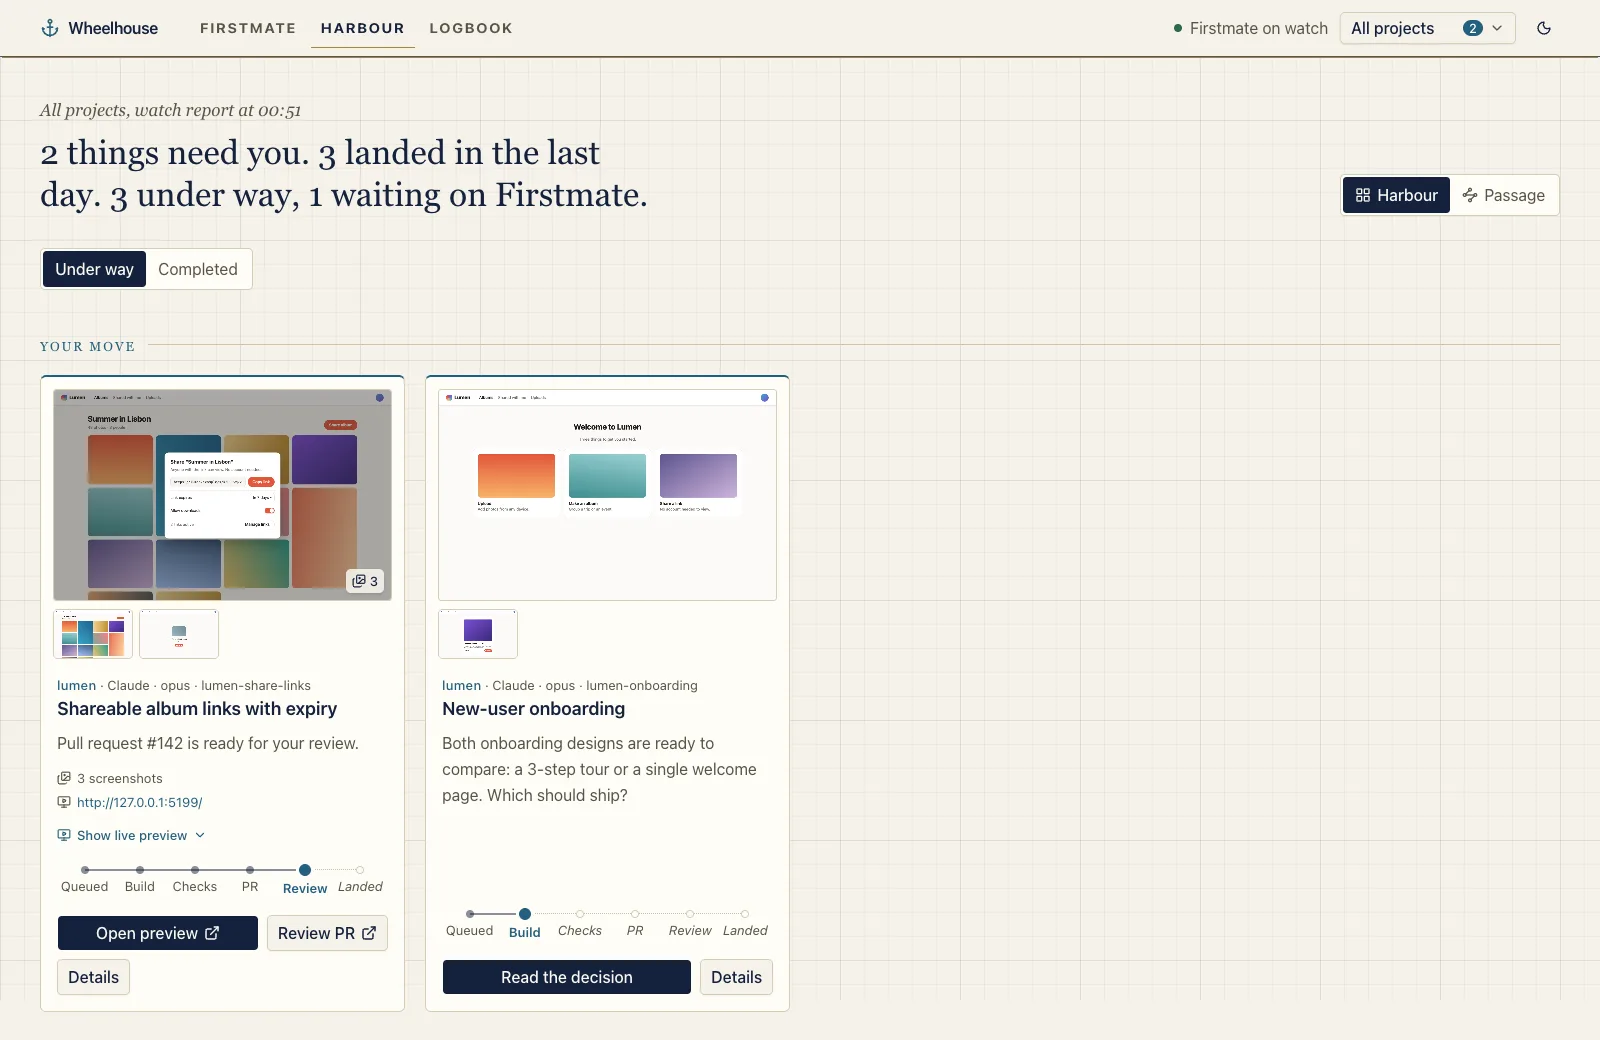
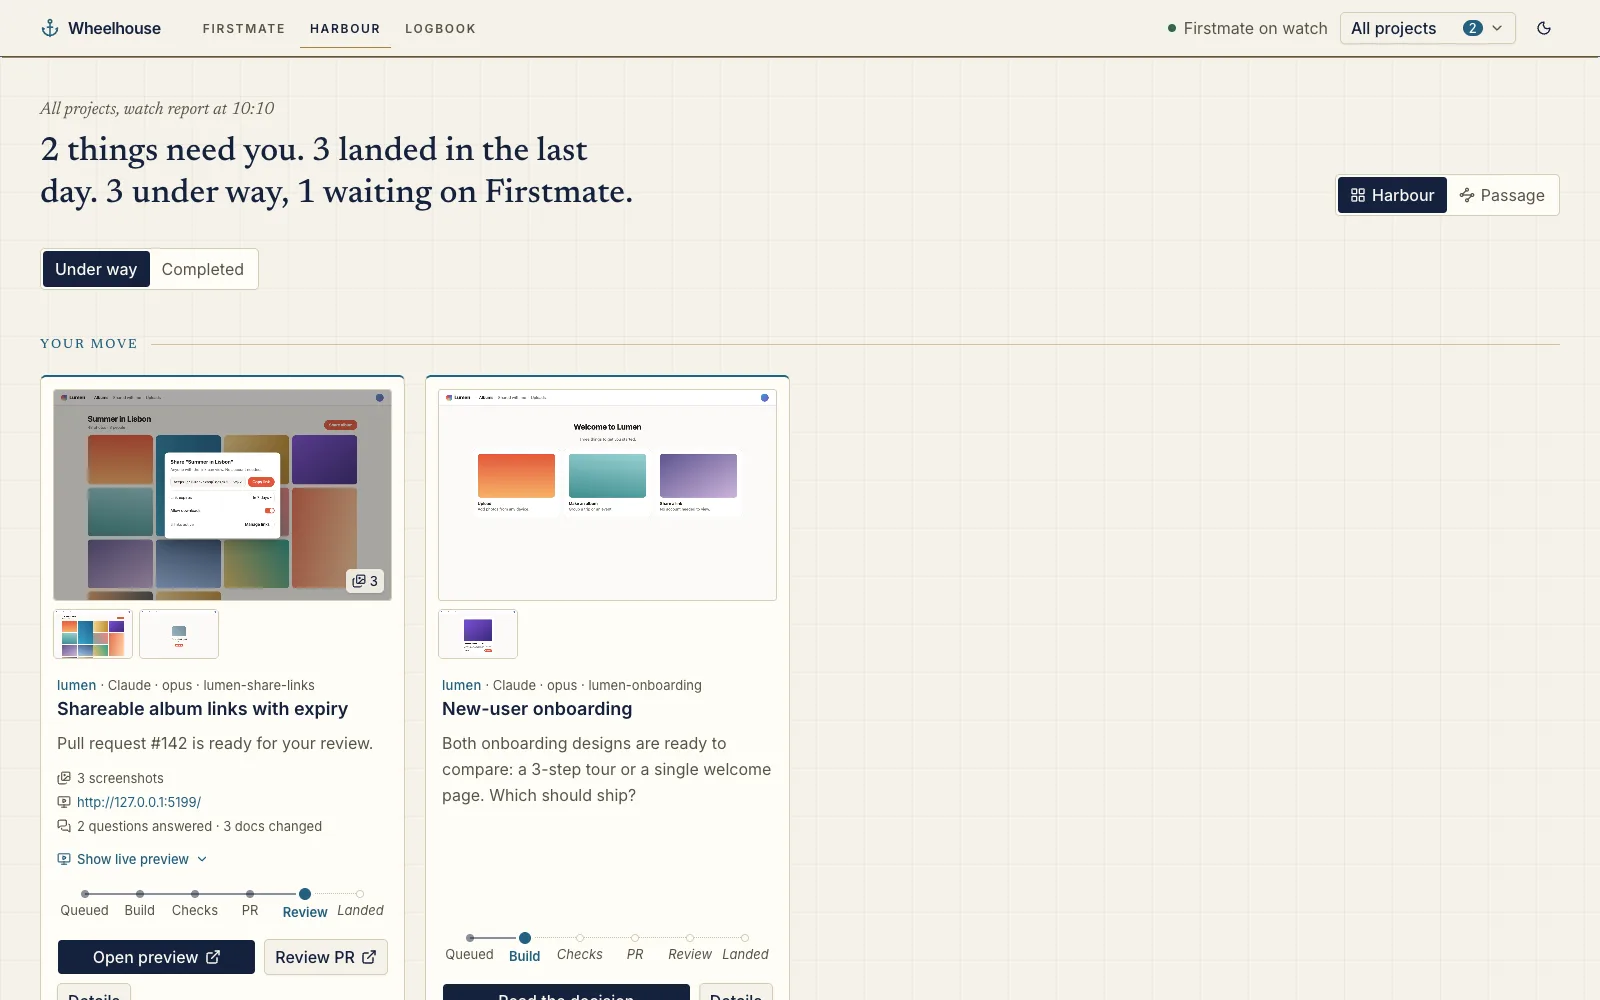
fix: apply the UX review: one meaning per count, plain failure names, Checks stage falls back to the latest report; refresh README screenshots

diff --git a/src/routes/tasks/[id]/+page.svelte b/src/routes/tasks/[id]/+page.svelte
@@ -160,7 +160,10 @@
 					shots: shots.length,
 					plugins: pluginTabs.map((e) => ({ key: e.key, title: e.title })),
 					build: {
-						talk: detail.build.conversation.available ? detail.build.conversation.value.length : 0,
+						// Only what is still waiting on an answer is counted.
+						talk: detail.build.conversation.available
+							? detail.build.conversation.value.filter((e) => e.outcome.state === 'open').length
+							: 0,
 						docs: detail.build.docs.available ? detail.build.docs.value.length : 0
 					}
 				})
@@ -197,6 +200,14 @@
 		const reduce = matchMedia('(prefers-reduced-motion: reduce)').matches;
 		tabsTop?.scrollIntoView({ block: 'start', behavior: reduce ? 'auto' : 'smooth' });
 	}
+
+	// On narrow screens the tab row scrolls; keep the selected tab in sight.
+	$effect(() => {
+		void active;
+		document
+			.getElementById(`tab-${active}`)
+			?.scrollIntoView({ block: 'nearest', inline: 'nearest' });
+	});
 
 	function onTabKey(e: KeyboardEvent, i: number) {
 		const n = tabs.length;
@@ -339,6 +350,18 @@
 	{/if}
 {/snippet}
 
+{#snippet checksLink()}
+	<button
+		type="button"
+		class="mt-2 block text-sm text-sea hover:underline"
+		onclick={() => {
+			show('checks');
+			// Keyboard users land where the report is.
+			tick().then(() => document.getElementById('tab-checks')?.focus());
+		}}>What each check found</button
+	>
+{/snippet}
+
 {#snippet queueBlock()}
 	{#if task}
 		<p class="text-sm text-muted-foreground">
@@ -369,10 +392,8 @@
 			From the validation run’s own report{task.pipeline.observedAt
 				? `, ${ago(task.pipeline.observedAt, live.now)}`
 				: ''}.
-			<button type="button" class="text-sea hover:underline" onclick={() => show('checks')}
-				>What each check found</button
-			>
 		</p>
+		{@render checksLink()}
 	{:else if ev?.validation.available}
 		{@const plain = plainStatus(task?.current?.state, ev.validation.value.detail)}
 		<p class="text-sm">{plain}</p>
@@ -387,6 +408,14 @@
 		{/if}
 		<RawDetails raw={ev.validation.value.detail} {plain} />
 		{@render source(ev.validation)}
+	{:else if detail?.build.checks.available}
+		<!-- No run is current any more, but the latest one's report is still there. -->
+		<ul class="space-y-1 text-sm">
+			{#each detail.build.checks.value.steps.filter((x) => x.key !== 'intent') as c (c.key)}
+				<li><span class="font-medium">{c.label}</span> · {c.summary}</li>
+			{/each}
+		</ul>
+		{@render checksLink()}
 	{:else if ev}
 		{@render unavailable(ev.validation)}
 	{/if}

diff --git a/src/lib/components/wh/buildlog/ChecksReport.svelte b/src/lib/components/wh/buildlog/ChecksReport.svelte
@@ -32,6 +32,15 @@
 	const docHref = (p: string) =>
 		`/tasks/${encodeURIComponent(taskId)}/doc?path=${encodeURIComponent(p)}`;
 	const RESULT = { pass: 'Passed', fail: 'Failed', untested: 'Not tested', other: 'Other' };
+	/** A failed test's own name first, in sentence case; where it lives (file and suite) under it. */
+	function testName(full: string): { title: string; where: string | null } {
+		const parts = full.split(' › ');
+		const last = parts.pop() ?? full;
+		return {
+			title: last.charAt(0).toUpperCase() + last.slice(1),
+			where: parts.length ? parts.join(' › ') : null
+		};
+	}
 </script>
 
 {#snippet stateIcon(s: CheckReport)}
@@ -131,15 +140,23 @@
 								{/if}
 								{#if t.failures.length}
 									<ul class="space-y-2">
-										{#each t.failures as f (f.name)}
+										{#each t.failures as f, n (f.name)}
+											{@const name = testName(f.name)}
 											<li>
-												<details class="rounded-md border border-danger/30 bg-danger/5">
+												<details
+													class="rounded-md border border-danger/30 bg-danger/5"
+													open={n === 0}
+												>
 													<summary class="flex cursor-pointer items-start gap-2 px-3 py-2">
 														<X class="mt-0.5 size-4 shrink-0 text-danger" aria-hidden="true" />
-														<span class="min-w-0 break-words">{f.name}</span>
+														<span class="min-w-0 break-words"
+															>{name.title}{#if name.where}<span
+																	class="block text-xs text-muted-foreground">{name.where}</span
+																>{/if}</span
+														>
 													</summary>
 													{#if f.output}<pre
-															class="no-scrollbar overflow-x-auto border-t border-danger/20 px-3 py-2 font-mono text-xs whitespace-pre-wrap">{f.output}</pre>{/if}
+															class="overflow-x-auto border-t border-danger/20 px-3 py-2 font-mono text-xs whitespace-pre">{f.output}</pre>{/if}
 												</details>
 											</li>
 										{/each}
@@ -202,7 +219,9 @@
 							{#if s.notes.length}
 								<div>
 									<p class="text-xs text-muted-foreground">
-										{s.key === 'test' || s.key === 'document' ? 'What it did' : 'Along the way'}
+										{s.key === 'test' || s.key === 'document'
+											? 'In its own words'
+											: 'Along the way'}
 									</p>
 									<ul class="mt-1 list-disc space-y-1 pl-5 text-muted-foreground">
 										{#each s.notes as n, i (i)}<li>{n}</li>{/each}

diff --git a/src/lib/buildlog.ts b/src/lib/buildlog.ts
@@ -114,9 +114,11 @@ export type DocView = Available<{
 	markdown: string;
 	truncated: boolean;
 	github: string | null;
+	/** This task's work changed it (else the worker only read it). */
+	changed: boolean;
 }>;
 
-/** The Harbour card's hint: questions asked about the task, and docs it touches. */
+/** The Harbour card's hint: questions asked about the task (each review finding counts), and docs it changes. */
 export interface BuildHint {
 	questions: number;
 	open: number;
@@ -152,7 +154,7 @@ export function hintLine(h: BuildHint | null | undefined): string | null {
 				: `${plural(h.questions, 'question')} answered`
 		);
 	}
-	if (h.docs) parts.push(plural(h.docs, 'doc'));
+	if (h.docs) parts.push(`${plural(h.docs, 'doc')} changed`);
 	return parts.length ? parts.join(' · ') : null;
 }
 
@@ -162,8 +164,11 @@ export function testLine(t: TestResult): string {
 	if (passed !== null || failed !== null) {
 		const total = (passed ?? 0) + (failed ?? 0);
 		const skip = skipped ? `, ${skipped} skipped` : '';
-		if (failed) return `${failed} of ${plural(total, 'test')} failed${skip}`;
-		return `All ${plural(total, 'test')} passed${skip}`;
+		const live = t.scenarios.length
+			? `; ${t.scenarios.filter((s) => s.result === 'pass').length} of ${plural(t.scenarios.length, 'scenario')} passed when tried live`
+			: '';
+		if (failed) return `${failed} of ${plural(total, 'test')} failed${skip}${live}`;
+		return `All ${plural(total, 'test')} passed${skip}${live}`;
 	}
 	if (t.scenarios.length) {
 		const n = (r: string) => t.scenarios.filter((s) => s.result === r).length;

diff --git a/src/lib/server/buildlog/conversation.ts b/src/lib/server/buildlog/conversation.ts
@@ -251,24 +251,31 @@ function rest(text: string, title: string): string | null {
 
 const lower = (s: string) => (s ? s.charAt(0).toLowerCase() + s.slice(1) : s);
 
-/** How many questions the task's worker and review raised, and how many are still open. */
+/**
+ * How many questions the task's worker and review raised, and how many are
+ * still open. Each of the review's findings put to Firstmate is a question.
+ */
 export function questionCounts(statuses: LedgerStatus[]): { questions: number; open: number } {
-	const open = new Set<string>();
+	const open = new Map<string, number>();
 	let questions = 0;
 	let anon = 0;
 	for (const s of [...statuses].sort((a, b) => a.ts - b.ts)) {
 		if (s.state === 'needs-decision' || s.state === 'blocked') {
 			const key = s.key ?? `#${++anon}`;
 			if (open.has(key)) continue;
-			open.add(key);
-			questions++;
+			const n = Math.max(
+				1,
+				/\bfindings=(\S+)/.exec(s.text)?.[1].split(',').filter(Boolean).length ?? 1
+			);
+			open.set(key, n);
+			questions += n;
 		} else if (s.state === 'resolved') {
 			if (s.key) open.delete(s.key);
 			else {
-				const last = [...open].filter((k) => !k.startsWith('nm-')).at(-1);
+				const last = [...open.keys()].filter((k) => !k.startsWith('nm-')).at(-1);
 				if (last) open.delete(last);
 			}
 		}
 	}
-	return { questions, open: open.size };
+	return { questions, open: [...open.values()].reduce((a, b) => a + b, 0) };
 }

diff --git a/src/lib/components/wh/buildlog/DocsPanel.svelte b/src/lib/components/wh/buildlog/DocsPanel.svelte
@@ -15,12 +15,12 @@
 				].filter((g) => g.items.length)
 			: []
 	);
-	const how = (d: DocRef) =>
-		d.changed
-			? d.additions !== null
-				? `Changed (+${d.additions} −${d.deletions ?? 0})`
-				: 'Changed'
-			: 'Read by the worker';
+	const how = (d: DocRef) => {
+		if (!d.changed) return 'Read by the worker';
+		if (d.additions === null) return 'Changed in this task';
+		if (!d.deletions) return `${d.additions} ${d.additions === 1 ? 'line' : 'lines'} added`;
+		return `${d.additions} added, ${d.deletions} removed`;
+	};
 </script>
 
 <section aria-labelledby="task-docs" class="max-w-4xl">
@@ -54,7 +54,7 @@
 						<div class="min-w-0 flex-1">
 							<a href={href(d)} class="font-medium hover:underline">{d.title}</a>
 							<p class="mt-0.5 text-xs text-muted-foreground">
-								{DOC_KIND_LABEL[d.kind]} · {d.name} ·
+								{DOC_KIND_LABEL[d.kind]}{d.kind === 'readme' ? '' : ` · ${d.name}`} ·
 								<span class={d.changed ? 'text-foreground/80' : ''}>{how(d)}</span>
 							</p>
 						</div>

diff --git a/src/lib/server/buildlog/docs.ts b/src/lib/server/buildlog/docs.ts
@@ -35,7 +35,7 @@ export function readableName(p: string): string {
 	const base = path.basename(p).replace(DOC_EXT, '');
 	if (/^readme$/i.test(base)) {
 		const dir = path.dirname(p);
-		return dir === '.' ? 'Readme' : `Readme for ${path.basename(dir)}`;
+		return dir === '.' ? 'Project readme' : `Readme for ${path.basename(dir)}`;
 	}
 	const s = base
 		.replace(/^\d{1,5}[-_ ]+/, '')
@@ -46,6 +46,8 @@ export function readableName(p: string): string {
 
 /** The document's own title: YAML front matter `title:`/`name:`, else its first heading. */
 export function docTitle(md: string, p: string): string {
+	// A readme's heading is usually just the project's name; say what it is instead.
+	if (docKind(p) === 'readme') return readableName(p);
 	const text = md.replace(/\r\n?/g, '\n');
 	const front = /^---\n([\s\S]*?)\n---/.exec(text);
 	const named = front && /^(?:title|name):\s*["']?(.+?)["']?\s*$/m.exec(front[1]);

diff --git a/src/lib/server/buildlog/checks.test.ts b/src/lib/server/buildlog/checks.test.ts
@@ -209,7 +209,9 @@ describe('checks view', () => {
 		const by = Object.fromEntries(v.steps.map((s) => [s.key, s]));
 		expect(by.rebase.summary).toBe('Already up to date with the main branch');
 		expect(by.review.summary).toBe('Found 3 things to look at over 2 rounds; made 1 fix');
-		expect(by.test.summary).toBe('2 of 15 tests failed, 1 skipped');
+		expect(by.test.summary).toBe(
+			'2 of 15 tests failed, 1 skipped; 1 of 3 scenarios passed when tried live'
+		);
 		expect(by.test.tests?.scenarios).toHaveLength(3);
 		expect(by.document.summary).toBe('Updated the docs: 1 document changed in all');
 		expect(by.document.docs?.summary[0]).toBe(

diff --git a/src/lib/server/buildlog/conversation.test.ts b/src/lib/server/buildlog/conversation.test.ts
@@ -174,8 +174,9 @@ describe('question counts', () => {
 				st(2, 'needs-decision', 'a again?', 'k1'),
 				st(3, 'resolved', 'answered: yes', 'k1'),
 				st(4, 'blocked', 'stuck'),
-				st(5, 'needs-decision', 'b?', 'k2')
+				st(5, 'needs-decision', 'b?', 'k2'),
+				st(6, 'needs-decision', `ask-user findings=x,y file=/f.txt`, `nm-${RUN}-review`)
 			])
-		).toEqual({ questions: 3, open: 2 });
+		).toEqual({ questions: 5, open: 4 });
 	});
 });

diff --git a/src/routes/tasks/[id]/doc/+page.svelte b/src/routes/tasks/[id]/doc/+page.svelte
@@ -36,6 +36,9 @@
 			</p>
 			<h1 class="mt-1 text-[2rem] leading-tight text-balance">{doc.title}</h1>
 			<p class="mt-2 flex flex-wrap items-center gap-x-3 gap-y-1 text-sm text-muted-foreground">
+				<span class={doc.changed ? 'text-foreground/80' : ''}
+					>{doc.changed ? 'Changed in this task' : 'Read by the worker for this task'}</span
+				>
 				<span>{doc.name}</span>
 				{#if doc.github}<a
 						href={doc.github}

diff --git a/src/lib/server/buildlog/docs.test.ts b/src/lib/server/buildlog/docs.test.ts
@@ -49,6 +49,7 @@ describe('titles', () => {
 		);
 		expect(docTitle('no heading here', 'docs/adr/0007-use-postgres.md')).toBe('Use postgres');
 		expect(readableName('packages/web/README.md')).toBe('Readme for web');
+		expect(docTitle('# Lumen\n', 'README.md')).toBe('Project readme');
 	});
 });
 

diff --git a/src/lib/server/buildlog/reader.ts b/src/lib/server/buildlog/reader.ts
@@ -471,7 +471,8 @@ export class BuildReader {
 				kind: ref.kind,
 				markdown: text.text,
 				truncated: !text.whole,
-				github: ref.github
+				github: ref.github,
+				changed: ref.changed
 			}
 		};
 	}

diff --git a/README.md b/README.md
@@ -26,9 +26,15 @@ Chat with Firstmate the way you would with a lead engineer. Its replies read as 
 
 ## Know exactly where every task is
 
-![A task page: the stages from queued to landed, and the automated checks step by step with what each one found](docs/screenshots/task.webp)
+![A task page: the automated checks step by step, with two failing tests and the start of their output](docs/screenshots/task.webp)
 
-Every piece of work moves along a passage, from **Queued** to **Landed**. Open a task to see the files it changed, each automated check as it runs (what the review found, what got fixed, how long each step took), the pull request and its CI, and the full log. While you are away you can still follow the build: the **Conversation** between the worker and Firstmate (every question, answer and instruction), what each **Check** found (tests passed and failed, with the failures' output, and which docs changed), and every decision record and doc the work read or changed, readable right there.
+Every piece of work moves along a passage, from **Queued** to **Landed**. Open a task to see the files it changed, each automated check as it runs (what the review found, what got fixed, how long each step took), the pull request and its CI, and the full log.
+
+## Follow the build while you are away
+
+![The conversation between a worker and Firstmate: an instruction the worker has read, and the automated review's two questions with Firstmate's call on each](docs/screenshots/conversation.webp)
+
+Every question the worker raised and every answer Firstmate gave for you is there in plain words, with who asked, who answered and how it ended. **Checks** shows what each automated step found: tests passed and failed, each failure with its output, and which docs changed. **Docs** lists every decision record and doc the work read or changed, readable right in Wheelhouse.
 
 ## Review the real thing, not just the diff
 
